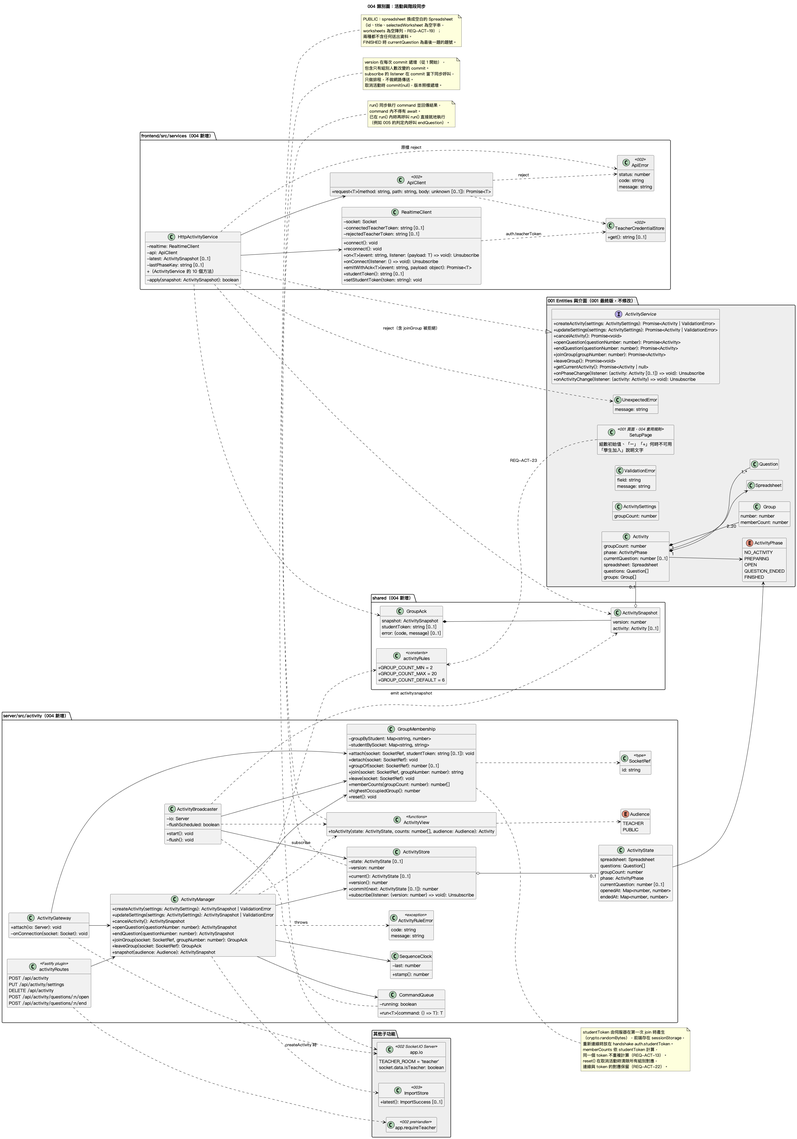
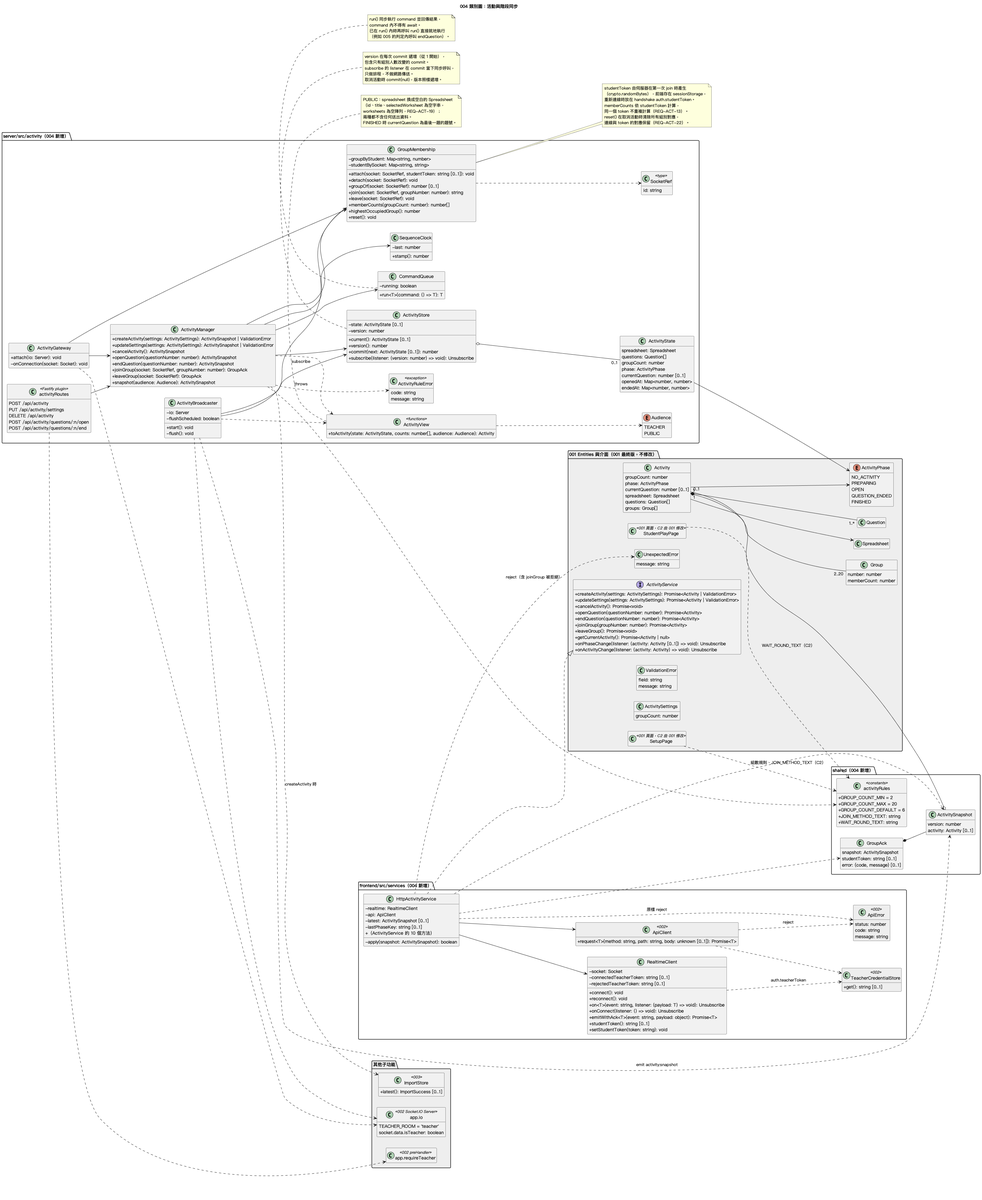
spec(004): move page rules to a 001 change request
Analyze run 5 found that 004 would edit 001's verified pages, which
violates principle III; 004 now only provides shared constants and the
pages become 001 change request C2. The server restart edge case said
pages would not switch, contradicting the null notification on
reconnect, and repeat cancels now follow REQ-ACT-22 only.

Refs: REQ-ACT-02, REQ-ACT-07, REQ-ACT-22, REQ-ACT-23, AC-01, AC-02, AC-09

diff --git a/specs/004-buzzer-session/tasks.md b/specs/004-buzzer-session/tasks.md
@@ -19,7 +19,7 @@ description: "Task list for 004 活動與階段同步"
 
 ## 依賴 001 的修改
 
-只剩 spec「需請 001 修改」C1（D21：老師登入後依階段回到控制台；001 已完成但沒有納入）。001 完成 C1 前，T050 中「回到控制台」的 e2e 以 `test.skip` 標記並註明原因；「暫時限制」的部分（老師重新登入後進入 T-Pick、活動不變、再建立活動被拒絕）現在就測。其餘頁面行為照 001 最終版：結束最後一題直接 `FINISHED`、加入後依階段切換、取消活動（FR-026、FR-050、FR-051，`onPhaseChange(null)`），001 已完成。組數範圍與預設值、說明文字是 001 spec 交給 004 定義的規則，001 只保留位置，由 004 套用（T061，research RA-16）。
+spec「需請 001 修改」有兩項：C1（D21：老師登入後依階段回到控制台；001 已完成但沒有納入）與 C2（活動設定頁、等待開放頁引用 004 的組數規則與說明文字）。004 不修改 001 的頁面與測試（原則 III）。001 完成 C1 前，T050 中「回到控制台」的 e2e 以 `test.skip` 標記並註明原因；001 完成 C2 前，T028、T044 中檢查「−」「+」不可用與說明文字的 e2e 以 `test.skip` 標記；「暫時限制」的部分（老師重新登入後進入 T-Pick、活動不變、再建立活動被拒絕）現在就測。其餘頁面行為照 001 最終版：結束最後一題直接 `FINISHED`、加入後依階段切換、取消活動（FR-026、FR-050、FR-051，`onPhaseChange(null)`），001 已完成。組數範圍與預設值、說明文字是 001 spec 交給 004 定義的規則，004 以 `shared/src/activityRules.ts` 提供（T002），頁面由 001 依 C2 引用（research RA-16）。
 
 ---
 
@@ -28,7 +28,7 @@ description: "Task list for 004 活動與階段同步"
 **Purpose**: 套件、共用型別與測試工具
 
 - [ ] T001 [P] 在 `server/package.json` 加入 `socket.io` 相依、`socket.io-client` 開發相依；在 `frontend/package.json` 加入 `socket.io-client` 相依
-- [ ] T002 [P] 建立 `shared/src/activityRules.ts`：`GROUP_COUNT_MIN = 2`、`GROUP_COUNT_MAX = 20`、`GROUP_COUNT_DEFAULT = 6`（data-model §1）
+- [ ] T002 [P] 建立 `shared/src/activityRules.ts`：`GROUP_COUNT_MIN = 2`、`GROUP_COUNT_MAX = 20`、`GROUP_COUNT_DEFAULT = 6`，以及 spec「說明文字」的 `JOIN_METHOD_TEXT`、`WAIT_ROUND_TEXT`（data-model §1，REQ-ACT-23）；`server/tests/unit/activity/activityRules.test.ts` 確認常數值與 spec 的數值、文字完全相同
 - [ ] T003 [P] 建立 `shared/src/activitySync.ts`：`ActivitySnapshot { version: number; activity: Activity | null }`、`GroupAck { snapshot: ActivitySnapshot; studentToken?: string; error?: { code: string; message: string } }`；`isValidationError` 沿用 001 的 `shared/src/guards.ts`
 - [ ] T004 建立 `server/tests/helpers/activityTestServer.ts`：以 002 的 `buildApp(config, deps)` 在隨機埠啟動伺服器（含 002 的 `app.io` 與 004 的 activity 模組）；`deps` 以替身取代 002 的老師驗證（憑證 `teacher-test` 為有效老師、可模擬換發）與 003 的 `ImportStore`（預設 4 題，可設為 `null`）；提供 `connectTeacher(token?)`、`connectStudent(studentToken?)`（只用 WebSocket）、`waitForSnapshot(socket, predicate, timeoutMs)`、`emitWithAck(socket, event, payload)`，依 T001、T003
 
@@ -65,7 +65,7 @@ description: "Task list for 004 活動與階段同步"
 
 ## Phase 3: User Story 1 - 老師建立活動並設定組數 (Priority: P1) 🎯 MVP
 
-**Goal**: 老師建立活動、修改組數、在準備中取消活動，學生頁面看得到活動；活動設定頁與等待開放頁套用 004 的組數規則與說明文字
+**Goal**: 老師建立活動、修改組數、在準備中取消活動，學生頁面看得到活動；組數規則與說明文字以共用常數提供
 
 **Independent Test**: 用假的匯入結果建立 4 組的活動，再改成 6 組，開著的學生連線收到更新；取消後學生連線收到 `activity: null`，再建立一次人數從 0 開始
 
@@ -75,21 +75,19 @@ description: "Task list for 004 活動與階段同步"
 - [ ] T024 [P] [US1] `server/tests/integration/activity/activityRoutes.settings.test.ts`（Fastify `inject`）：`POST /api/activity`、`PUT /api/activity/settings` 成功回 `200 ActivitySnapshot`；組數不合法（含 3.5、字串）回 `200 ValidationError { field: "groupCount", message }` 且活動不變；規則不允許回 `409 { code, message }`；沒有老師憑證回 `401 UNAUTHORIZED` 且活動不變（AC-07、SC-006）；並把這兩條路由加進 002 `server/tests/integration/requireTeacher.test.ts` 的「老師專用路由清單」；建立後學生連線 1 秒內收到 `PREPARING` 的快照（AC-03、AC-15）
 - [ ] T054 [P] [US1] `server/tests/unit/activity/ActivityManager.cancel.test.ts`：`PREPARING` 取消後 `current()` 為 `null`、版本加 1、`GroupMembership` 人數全為 0（REQ-ACT-22）；取消後 `createActivity` 成功且人數從 0 開始（AC-34）；`OPEN`、`QUESTION_ENDED`、`FINISHED` 時回 `CANCEL_LOCKED`「第 1 題開放後不能取消活動」且狀態與版本不變（AC-35）；沒有活動時不 commit、回傳目前快照（AC-36）；取消後 `joinGroup` 回 `NO_ACTIVITY`、`updateSettings` 回 `NO_ACTIVITY`
 - [ ] T055 [P] [US1] `server/tests/integration/activity/activityRoutes.cancel.test.ts`（Fastify `inject` 與真的 Socket.IO 連線）：`DELETE /api/activity` 成功回 `200 { version, activity: null }`；第 1 題開放後回 `409 CANCEL_LOCKED`；沒有老師憑證回 `401` 且活動不變（AC-07、SC-006）；把這條路由加進 002 的「老師專用路由清單」；取消後學生與老師連線 1 秒內收到 `activity: null` 的快照（AC-33、SC-007）
-- [ ] T056 [P] [US1] `frontend/tests/unit/HttpActivityService.cancel.test.ts`（002 `ApiClient` 與假的 `RealtimeClient`）：`cancelActivity` 送 `DELETE /api/activity`，套用回應後 resolve，`onPhaseChange` 收到 `null`、`onActivityChange` 不被呼叫；`ApiError`（409、401）原樣 reject；有活動時推送 `activity: null` 通知 `onPhaseChange(null)`；斷線期間被取消、重新連線後收到 `null` 仍通知（`lastPhaseKey` 不清除）；取消後再推送新活動時通知新的 `Activity`（001 RD-12）
-- [ ] T057 [P] [US1] 修改 001 的元件測試以涵蓋 004 的規則與文字（001 測試是在 001 的規則下寫的，只新增或改寫與 REQ-ACT-23 相關的案例）：`frontend/tests/component/SetupPage.test.tsx` 建立模式組數預設 6、修改模式為目前活動的組數；組數 2 時「−」為 `disabled`、20 時「+」為 `disabled`，連按不會超出範圍；「學生加入」為 spec「說明文字」的內容；`frontend/tests/component/StudentPlayPage.wait.test.tsx`「這一輪」顯示題數與等待開放頁的說明文字（AC-01、AC-02、AC-09）
+- [ ] T056 [P] [US1] `frontend/tests/unit/HttpActivityService.cancel.test.ts`（002 `ApiClient` 與假的 `RealtimeClient`）：`cancelActivity` 送 `DELETE /api/activity`，套用回應後 resolve，`onPhaseChange` 收到 `null`、`onActivityChange` 不被呼叫；`ApiError`（409、401）原樣 reject；有活動時推送 `activity: null` 通知 `onPhaseChange(null)`；斷線期間被取消、或伺服器重新啟動（重新連線後收到 `{ version: 0, activity: null }`），都仍通知 `null`（`lastPhaseKey` 不清除，spec Edge Cases）；取消後再推送新活動時通知新的 `Activity`（001 RD-12）
 - [ ] T025 [P] [US1] `frontend/tests/unit/HttpActivityService.teacher.test.ts`（002 `ApiClient` 的替身）：`createActivity`、`updateSettings` 成功時回傳 `Activity` 並套用版本；`200` 的 body 為 `ValidationError`（以 `isValidationError` 判斷）時原樣回傳、不套用版本；`ApiError`（409、401、`NETWORK`）原樣 reject（RA-10）
 
 ### Implementation for User Story 1
 
 - [ ] T026 [US1] 在 `server/src/activity/ActivityManager.ts` 實作 `createActivity`、`updateSettings`，都在 `CommandQueue.run` 內；組數驗證用 `activityRules`（data-model「ValidationError 的內容」），依 T015、T002
 - [ ] T027 [US1] 實作 `server/src/activity/activityRoutes.ts` 的 `POST /api/activity`、`PUT /api/activity/settings`：`{ preHandler: app.requireTeacher }`；JSON schema 只要求 body 是物件，`groupCount` 由 `ActivityManager` 驗證；`ValidationError` → `200` 回傳 `ValidationError`；`ActivityRuleError` → `409 { code, message }`（002 的 `ErrorBody`，contracts/activity-http.md），依 T026
-- [ ] T028 [US1] 在 `frontend/src/services/HttpActivityService.ts` 實作 `createActivity`、`updateSettings`（經 002 的 `ApiClient`），依 T022；並在 `frontend/tests/e2e/activity-sync.spec.ts` 加入「活動設定頁」情境：組數預設 6、組數 2 時「−」不可用、20 時「+」不可用、「學生加入」顯示 spec「說明文字」（AC-01、AC-02；依 T061）
+- [ ] T028 [US1] 在 `frontend/src/services/HttpActivityService.ts` 實作 `createActivity`、`updateSettings`（經 002 的 `ApiClient`），依 T022；並在 `frontend/tests/e2e/activity-sync.spec.ts` 加入「活動設定頁」情境：組數預設 6；組數超出範圍時建立被拒絕並在欄位旁顯示「組數必須是 2 到 20 之間的整數」（AC-01、AC-04）；「−」「+」不可用與「學生加入」的說明文字（AC-01、AC-02）先 `test.skip`，註明需 001 完成 C2
 - [ ] T058 [US1] 在 `server/src/activity/ActivityManager.ts` 實作 `cancelActivity()`，在 `CommandQueue.run` 內；`GroupMembership.reset()`、`ActivityStore.commit(null)`（data-model「狀態轉換」、research RA-17），依 T026
 - [ ] T059 [US1] 在 `server/src/activity/activityRoutes.ts` 加入 `DELETE /api/activity`：`{ preHandler: app.requireTeacher }`；`ActivityRuleError` → `409`（contracts/activity-http.md），依 T027、T058
 - [ ] T060 [US1] 在 `frontend/src/services/HttpActivityService.ts` 實作 `cancelActivity()`（經 002 的 `ApiClient`，套用回應後 resolve），依 T028
-- [ ] T061 [US1] 套用 004 的組數規則與說明文字到 001 頁面（research RA-16），不增減欄位、按鈕或頁面：`frontend/src/pages/teacher/SetupPage.tsx` 建立模式初始值改用 `GROUP_COUNT_DEFAULT`，「−」「+」依 `GROUP_COUNT_MIN`、`GROUP_COUNT_MAX` 設 `disabled` 並限制點擊結果，`JOIN_METHOD` 改為 spec「說明文字」；`frontend/src/pages/student/StudentPlayPage.tsx` 的 `WaitView`「這一輪」加上等待開放頁的說明文字。寫 T057 之前先依 CLAUDE.md 第 2 節步驟 6 列出這兩頁的按鈕配置與顯示文字給使用者確認，依 T002
 
-**Checkpoint**: 老師可以建立、修改、取消活動，學生連線同步收到；活動設定頁與等待開放頁套用 004 的規則
+**Checkpoint**: 老師可以建立、修改、取消活動，學生連線同步收到
 
 ---
 
@@ -135,7 +133,7 @@ description: "Task list for 004 活動與階段同步"
 - [ ] T041 [US3] 在 `frontend/src/services/HttpActivityService.ts` 實作 `openQuestion`、`endQuestion`，依 T028
 - [ ] T042 [US3] 修改 `frontend/src/services/createServiceRegistry.ts`：`activity` 綁定 `HttpActivityService`；移除 `phaseControl` 與 `activityValidationControl`；`submission` 或 `result` 仍是模擬實作時，把 `onActivityChange` 的活動寫進 `MockSession.teacherActivity`、`joinGroup` 成功的組別寫進 `MockSession.joinedGroup`、`leaveGroup` 成功時清除，`onPhaseChange(null)`（活動被取消）時清除 `teacherActivity` 與 `joinedGroup`；保留 003 留下的 `readWorksheet` 包裝（`MockResultService` 在老師分頁仍讀 `lastImport`）；並包一層模擬的 `judge`：`JudgeOutcome.activity` 不是 `OPEN` 時呼叫 `HttpActivityService.endQuestion(q)`，以其回傳的活動取代 `JudgeOutcome.activity`（RA-14）；更新 `frontend/tests/unit/ServiceRegistry.test.ts`（`isMockMode()` 仍為 true、`phaseControl` 不存在）
 - [ ] T043 [US3] 在 `server/src/activity/ActivityManager.ts` 與 `ActivityGateway.ts` 加入 pino 事件 `activity.created`、`activity.cancelled`、`question.opened`、`question.ended`、`group.joined`、`group.left`（RA-12），不記錄 `studentToken`；在 002 的 `server/src/logger.ts` `loggerOptions.redact.paths` 加上 `*.studentToken`；不記錄 handshake 物件；`server/tests/integration/activity/logging.test.ts` 檢查 log 輸出中沒有任何 `studentToken`
-- [ ] T044 [US3] `frontend/tests/e2e/activity-sync.spec.ts`：1 個老師與 3 個學生分頁走完「建立 → 加入 → 開放並結束 4 題 → 已結束」，學生頁面隨階段自動切換（S-Join 沒有活動 → 有活動、S-Wait → S-Answer → S-QuestionDone → S-Answer → … → 最後一題直接 S-Results），不需重新整理（AC-15、AC-17～20、SC-001、SC-004）；在 `QUESTION_ENDED`、`FINISHED` 時加入的分頁分別進入 S-QuestionDone、S-Results（001 RD-14）；學生分頁的 WebSocket 訊息中 `spreadsheet` 的 `id`、`title` 為空、沒有 `transport=polling` 的請求（AC-16、REQ-ACT-20、SC-003）；準備中老師取消活動：老師進入 T-Pick，S-Wait 的分頁切到 S-Join 並顯示「目前沒有活動，請等老師建立活動」、已選組別的 S-Join 清除選擇、首頁顯示沒有活動；老師重新建立活動後各組人數從 0 開始（AC-33、AC-34、SC-007）；開放第 1 題後控制台沒有「取消活動」；學生重新整理後選別組，共通錯誤訊息區顯示「第 1 題開放後不能換組，你在第 3 組」、停留在 S-Join；選回原組回到作答頁（AC-12、AC-14）；S-Wait 顯示 spec「說明文字」的內容（AC-09）
+- [ ] T044 [US3] `frontend/tests/e2e/activity-sync.spec.ts`：1 個老師與 3 個學生分頁走完「建立 → 加入 → 開放並結束 4 題 → 已結束」，學生頁面隨階段自動切換（S-Join 沒有活動 → 有活動、S-Wait → S-Answer → S-QuestionDone → S-Answer → … → 最後一題直接 S-Results），不需重新整理（AC-15、AC-17～20、SC-001、SC-004）；在 `QUESTION_ENDED`、`FINISHED` 時加入的分頁分別進入 S-QuestionDone、S-Results（001 RD-14）；學生分頁的 WebSocket 訊息中 `spreadsheet` 的 `id`、`title` 為空、沒有 `transport=polling` 的請求（AC-16、REQ-ACT-20、SC-003）；準備中老師取消活動：老師進入 T-Pick，S-Wait 的分頁切到 S-Join 並顯示「目前沒有活動，請等老師建立活動」、已選組別的 S-Join 清除選擇、首頁顯示沒有活動；老師重新建立活動後各組人數從 0 開始（AC-33、AC-34、SC-007）；開放第 1 題後控制台沒有「取消活動」；學生重新整理後選別組，共通錯誤訊息區顯示「第 1 題開放後不能換組，你在第 3 組」、停留在 S-Join；選回原組回到作答頁（AC-12、AC-14）；S-Wait 顯示 spec「說明文字」的內容（AC-09）先 `test.skip`，註明需 001 完成 C2
 
 **Checkpoint**: 完整活動流程可以展示；MVP 完成
 
@@ -177,15 +175,15 @@ description: "Task list for 004 活動與階段同步"
 ## Phase 8: Polish & Cross-Cutting Concerns
 
 - [ ] T051 依 quickstart.md 執行 17 個人工驗證情境，結果記在 `specs/004-buzzer-session/manual-verification.md`（原則 VIII）
-- [ ] T052 圖表一致性驗證：比對 `server/src/activity/`、`shared/src/activity*.ts`、`frontend/src/services/HttpActivityService.ts`、`RealtimeClient.ts`、`SetupPage.tsx` 與 `StudentPlayPage.tsx` 中屬於 004 的部分 的類別、方法、呼叫順序與 `diagrams/004-*.puml`，結果寫在 `specs/004-buzzer-session/diagram-verification.md`；不一致時修正程式碼，或依原則 II 先改 spec 與圖表（原則 I）
-- [ ] T053 回報執行的測試指令與結果：`npm test -w server -- activity`、`npm test -w frontend -- HttpActivityService SetupPage StudentPlayPage.wait`、`npx playwright test -c frontend/playwright.config.ts activity-sync`、`npm run test:load:activity -w server`（原則 VIII）
+- [ ] T052 圖表一致性驗證：比對 `server/src/activity/`、`shared/src/activity*.ts`、`frontend/src/services/HttpActivityService.ts`、`RealtimeClient.ts` 的類別、方法、呼叫順序與 `diagrams/004-*.puml`，結果寫在 `specs/004-buzzer-session/diagram-verification.md`；不一致時修正程式碼，或依原則 II 先改 spec 與圖表（原則 I）
+- [ ] T053 回報執行的測試指令與結果：`npm test -w server -- activity`、`npm test -w frontend -- HttpActivityService`、`npx playwright test -c frontend/playwright.config.ts activity-sync`、`npm run test:load:activity -w server`（原則 VIII）
 
 ---
 
 ## Dependencies & Execution Order
 
 - Phase 1 → Phase 2 → US1 → US2 → US3 → US5；US4 在 US3 之後。
-- US2 依賴 US1（加入需要活動）；US3 依賴 US1；US3 的 e2e（T044）依賴 US2；US5 依賴 US2、US3；US4 依賴 US3；US4 中回到控制台的 e2e 依賴 001 C1。
+- US2 依賴 US1（加入需要活動）；US3 依賴 US1；US3 的 e2e（T044）依賴 US2；US5 依賴 US2、US3；US4 依賴 US3；US4 中回到控制台的 e2e 依賴 001 C1；T028、T044 中頁面規則與說明文字的 e2e 依賴 001 C2。
 - 同一檔案的任務依序執行：`ActivityManager.ts`（T015 → T026 → T058 → T032 → T039 → T043）、`HttpActivityService.ts`（T022 → T028 → T060 → T034 → T041 → T050）、`activityRoutes.ts`（T027 → T059 → T040）、`ActivityGateway.ts`（T017 → T033 → T043）。
 
 ### Parallel Opportunities
@@ -201,14 +199,13 @@ T025 frontend/tests/unit/HttpActivityService.teacher.test.ts
 T054 server/tests/unit/activity/ActivityManager.cancel.test.ts
 T055 server/tests/integration/activity/activityRoutes.cancel.test.ts
 T056 frontend/tests/unit/HttpActivityService.cancel.test.ts
-T057 frontend/tests/component/SetupPage.test.tsx、StudentPlayPage.wait.test.tsx
 ```
 
 ## Implementation Strategy
 
 1. **MVP**：Phase 1、2 → US1 → US2 → US3。完成後即可展示完整的活動流程（SC-004）。
 2. 加上 US5，以壓力測試確認時序與量級。
-3. US4 的伺服器與服務層現在就做；001 C1 完成後解除回到控制台的 e2e skip。
+3. US4 的伺服器與服務層現在就做；001 C1 完成後解除回到控制台的 e2e skip；001 C2 完成後解除 T028、T044 中頁面規則與說明文字的 e2e skip。
 4. Polish：人工驗證、圖表一致性驗證、回報測試結果。
 
 ## 需求追溯
@@ -216,7 +213,7 @@ T057 frontend/tests/component/SetupPage.test.tsx、StudentPlayPage.wait.test.tsx
 | 需求 | 驗收 | 實作任務 | 測試任務 |
 | --- | --- | --- | --- |
 | REQ-ACT-01 | AC-03 | T026、T027 | T023、T024 |
-| REQ-ACT-02 | AC-01、AC-02、AC-04 | T002、T026、T028、T061 | T023、T024、T028、T057 |
+| REQ-ACT-02 | AC-01、AC-02、AC-04 | T002、T026、T028 | T002、T023、T024、T028 |
 | REQ-ACT-03 | AC-06、AC-34 | T026、T058 | T023、T054 |
 | REQ-ACT-04 | AC-05、AC-08 | T026 | T023 |
 | REQ-ACT-05 | AC-17～21 | T039、T040 | T035、T036、T037 |
@@ -237,7 +234,7 @@ T057 frontend/tests/component/SetupPage.test.tsx、StudentPlayPage.wait.test.tsx
 | REQ-ACT-20 | AC-31 | T018、T020 | T019、T044 |
 | REQ-ACT-21 | AC-25～27、AC-32 | T050 | T048、T049、T050 |
 | REQ-ACT-22 | AC-33～36 | T010、T012、T058、T059、T060、T042 | T009、T011、T054、T055、T056、T044 |
-| REQ-ACT-23 | AC-01、AC-02、AC-09 | T002、T061 | T057、T028、T044 |
+| REQ-ACT-23 | AC-01、AC-02、AC-09 | T002 | T002、T028、T044（頁面部分依賴 001 C2） |
 | REQ-ACT-NFR-01 | AC-28 | T016、T047 | T045、T046 |
 | REQ-ACT-NFR-02 | AC-29 | T032、T047 | T045、T046 |
 | SC-001、SC-004 | — | — | T044、T051 |

diff --git a/specs/004-buzzer-session/spec.md b/specs/004-buzzer-session/spec.md
@@ -20,7 +20,7 @@
 
 - 老師建立活動、修改組數（R3）。
 - 老師在準備中（開放第 1 題之前）取消活動；取消後活動不存在，已加入的學生回到選組頁的「目前沒有活動」（R3、feature-split 第 4 節）。
-- 活動設定頁的組數規則（預設值、「−」「+」何時不可用）與 004 負責的說明文字（001 FR-023、FR-051 交給 004 定義；001 已完成，由 004 在這兩頁套用，不增減欄位、按鈕或頁面）。
+- 定義並提供活動設定頁的組數規則（預設值、「−」「+」何時不可用）與 004 負責的說明文字（001 FR-023、FR-051 交給 004 定義）。頁面的呈現由 001 修改（「需請 001 修改」C2）；004 不修改 001 的頁面（原則 III）。
 - 學生不需登入，選擇組別加入；同一組可以有多位學生（R7）。
 - 老師依題號一題一題開放、結束搶答；結束最後一題時活動一併結束（R3、D9）。
 - 活動階段只存在伺服器，任何改變都主動通知所有分頁；學生頁面依階段自動切換（R11）。
@@ -34,7 +34,7 @@
 | 讀取學習單、辨識題目 | 003 |
 | 送出答案、依送出順序判定、作答期間隱藏其他組 | 005 |
 | 公布每題與全部結果、寫回學習單 | 006 |
-| 頁面、按鈕與頁面切換的畫面 | 001（004 配合 001 的現況；仍需 001 修改的只有 D21，見「需請 001 修改」） |
+| 頁面、按鈕與頁面切換的畫面 | 001（004 配合 001 的現況；仍需 001 修改的是 C1（D21）與 C2（組數規則與說明文字），見「需請 001 修改」） |
 
 不做：每題限時與倒數、公平模式（E3）、活動名稱、開新一輪（活動開放第 1 題之後就不能取消或提前結束，結束後也不能建立新活動；同一時間只有一場活動）、學生加入網址、連線／離線狀態顯示、活動狀態存檔（伺服器重啟後活動消失）。
 
@@ -42,7 +42,7 @@
 
 ### Session 2026-11-21
 
-- Q: 組數的範圍？組數在邊界時「−」「+」怎麼呈現？（001 D4）→ A: 2 到 20 組的整數；組數為 2 時「−」不可用、為 20 時「+」不可用；伺服器再驗證一次（REQ-ACT-02）。（2026-11-22：001 spec 已把範圍、預設值與「−」「+」何時不可用交給 004 定義，不列為請 001 修改。2026-11-26：001 已完成但沒有套用，改由 004 套用，見 Session 2026-11-26）
+- Q: 組數的範圍？組數在邊界時「−」「+」怎麼呈現？（001 D4）→ A: 2 到 20 組的整數；組數為 2 時「−」不可用、為 20 時「+」不可用；伺服器再驗證一次（REQ-ACT-02）。（2026-11-22：001 spec 已把範圍、預設值與「−」「+」何時不可用交給 004 定義，不列為請 001 修改。2026-11-26：001 已完成但沒有套用，列為請 001 修改 C2，見 Session 2026-11-26）
 - Q: 組數的預設值？（001 D5）→ A: 6 組（REQ-ACT-02、AC-01）。
 - Q: 結束最後一題時，活動是否一併結束？（001 D9）→ A: 是。結束最後一題後階段直接是「已結束」，不另外經過最後一題的「本題已結束」（REQ-ACT-06）。（2026-11-22：feature-split 第 4 節已定案，001 的頁面切換已配合）
 - Q: 老師在活動進行中重新整理頁面時，活動要結束，還是讓老師登入後回到控制台？（001 D21）→ A: 活動繼續；老師用同一個帳號重新登入後，直接進入控制台目前的階段（REQ-ACT-21，需請 001 修改 C1）。（2026-11-22 修訂：001 修改前為暫時限制，見 Session 2026-11-22）
@@ -82,8 +82,9 @@
 - Q: 活動被取消時，學生頁面怎麼知道？→ A: 依 001 RD-12，階段改變的通知以「沒有活動」表示活動已被取消；首頁、選組頁、等待開放頁收到後切換（REQ-ACT-16、AC-33）。
 - Q: 連點「確定取消活動」，第二次時活動已經不存在怎麼辦？→ A: 視為成功、不改變，與連點開放或結束相同（REQ-ACT-07、AC-36）。
 - Q: 允許取消後，「已經有活動時再建立」的訊息還要說「重新啟動伺服器」嗎？→ A: 要。這個情況只會在老師失去控制台時發生（D21 暫時限制下重新登入，或被別人登入取代），老師回不到控制台，也就無法取消；要重新開始仍只能重新啟動伺服器（AC-06、AC-32）。
-- Q: 001 已完成，但活動設定頁的組數沒有上下限（「−」可減到 0），預設值寫死在頁面，等待開放頁的「這一輪」只有題數，誰來補？→ A: 依 001 spec 範圍原則與 FR-023，這些規則屬於 004，001 只保留位置。由 004 在活動設定頁與等待開放頁套用 004 的規則與文字，不增減欄位、按鈕或頁面，所以不需修改 001 的 spec（REQ-ACT-02、REQ-ACT-23、AC-01、AC-02）。
+- Q: 001 已完成，但活動設定頁的組數沒有上下限（「−」可減到 0），預設值寫死在頁面，等待開放頁的「這一輪」只有題數，誰來補？→ A: 規則與文字屬於 004（001 FR-023、FR-051），由 004 定義並以共用常數提供；頁面怎麼呈現屬於 001。憲法 III 不允許為新增規則修改既有且已驗證的實作，001 plan 也只允許後續子功能修改 `ServiceRegistry` 的綁定，所以列為「需請 001 修改」C2，由 001 依自己的流程修改頁面與測試。C2 完成前，伺服器仍驗證組數（AC-04），頁面維持 001 現況（REQ-ACT-02、REQ-ACT-23、AC-01、AC-02、AC-09）。（2026-11-26 analyze 第 5 次 C1 後修訂；原本決定由 004 直接修改 001 頁面）
 - Q: 活動設定頁「學生加入」的文字以誰為準？→ A: 以 001 已實作的文字為基礎，加上 004 的換組規則（「說明文字」一節）。
+- Q: 伺服器重新啟動時，已開著的頁面怎麼辦？→ A: 頁面重新連上後收到「沒有活動」，依 001 RD-12：首頁、選組頁、等待開放頁切到「目前沒有活動」；作答頁、等待判定頁、本題結果頁與全部結果頁不切換（Edge Cases）。
 - Q: 學生收到的活動資料要遮掉哪些學習單資訊？→ A: 學生頁面用不到任何學習單資訊，試算表 ID、標題、工作表名稱都不給（REQ-ACT-19）。
 - Q: D21 的 C1 狀態？→ A: 001 已完成且沒有納入 C1，001 spec 的 D21 仍待處理。C1 保留為請 001 修改的項目，修改前維持暫時限制（「需請 001 修改」）。
 
@@ -99,8 +100,8 @@
 
 **Acceptance Scenarios**:
 
-1. **AC-01** **Given** 老師已登入且已成功匯入一份 4 題的學習單，**When** 進入活動設定頁（建立模式），**Then** 組數預設為 6，組別清單列出第 1–6 組；「這一輪」的學生加入說明為「說明文字」一節的內容。
-2. **AC-02** **Given** 活動設定頁的組數為 2，**When** 檢視組數欄位，**Then**「−」不可用，連按也不會小於 2；組數為 20 時「+」不可用，連按也不會大於 20。
+1. **AC-01** **Given** 老師已登入且已成功匯入一份 4 題的學習單，**When** 進入活動設定頁（建立模式），**Then** 組數預設為 6，組別清單列出第 1–6 組；「這一輪」的學生加入說明為「說明文字」一節的內容。（頁面部分需 001 完成 C2）
+2. **AC-02** **Given** 活動設定頁的組數為 2，**When** 檢視組數欄位，**Then**「−」不可用，連按也不會小於 2；組數為 20 時「+」不可用，連按也不會大於 20。（需 001 完成 C2；完成前由伺服器拒絕，見 AC-04）
 3. **AC-03** **Given** 活動設定頁的組數為 4，**When** 老師按「建立活動」，**Then** 活動進入「準備中」，題目為匯入的 4 題，第 1–4 組各 0 人；已開著首頁或選組頁的分頁在 1 秒內看到這個活動。
 4. **AC-04** **Given** 有人繞過頁面直接要求組數 1、21 或 3.5，**When** 建立活動或儲存設定，**Then** 系統拒絕，在組數欄位旁顯示「組數必須是 2 到 20 之間的整數」，活動不變。
 5. **AC-05** **Given** 準備中且第 5 組已有 1 位學生，**When** 老師把組數改成 4 並儲存，**Then** 系統拒絕並顯示「第 5 組已有學生加入，組數不能少於 5」；改成 8 則成功，所有分頁在 1 秒內看到 8 組。
@@ -124,7 +125,7 @@
 
 **Acceptance Scenarios**:
 
-1. **AC-09** **Given** 活動準備中、6 組，**When** 學生在選組頁選第 3 組並按「加入第 3 組」，**Then** 進入等待開放頁，「這一輪」顯示題數與「說明文字」一節的內容；老師控制台在 1 秒內顯示第 3 組人數加 1。
+1. **AC-09** **Given** 活動準備中、6 組，**When** 學生在選組頁選第 3 組並按「加入第 3 組」，**Then** 進入等待開放頁，「這一輪」顯示題數與「說明文字」一節的內容（說明文字需 001 完成 C2）；老師控制台在 1 秒內顯示第 3 組人數加 1。
 2. **AC-10** **Given** 第 3 組已有 1 人，**When** 另一個分頁也加入第 3 組，**Then** 加入成功，第 3 組為 2 人。
 3. **AC-11** **Given** 準備中，學生在第 3 組，**When** 按「選錯組別？重新選擇」後加入第 5 組，**Then** 第 3 組人數減 1、第 5 組加 1。
 4. **AC-12** **Given** 第 1 題已開放過（之後任何階段），**When** 已在第 3 組的分頁要求加入第 5 組或離開組別，**Then** 系統拒絕，頁面停留在原頁，共通錯誤訊息區顯示「第 1 題開放後不能換組，你在第 3 組」；該分頁仍在第 3 組。
@@ -203,7 +204,7 @@
 - 老師結束一題與 005 的「接受後自動結束」同時發生：只結束一次（AC-22）。
 - 所有學生分頁都斷線：活動照常；重新連上後立即收到目前狀態（AC-23）。
 - 活動進行中有人（原本的老師或其他人）以 Google 登入：依 002，新登入的人取代前一位老師，前一位老師分頁的老師操作被拒絕、不再收到老師版的活動狀態；活動本身不變（AC-32）。
-- 伺服器重新啟動：活動與所有組別都消失（RD-05 接受的限制）。已開著的頁面不會自動切換；重新整理後首頁顯示「目前沒有活動」，學生原本的組別不再有效。
+- 伺服器重新啟動：活動與所有組別都消失（RD-05 接受的限制），學生原本的組別不再有效。已開著的頁面重新連上後收到「沒有活動」：首頁、選組頁、等待開放頁切到「目前沒有活動」；作答頁、等待判定頁、本題結果頁依 001 RD-12 不切換，全部結果頁也不切換。重新整理後回到首頁，顯示「目前沒有活動」。
 - 已結束的活動不能重新開始，也不能建立新活動（不做開新一輪）；要再玩一場須重新啟動伺服器。
 - 老師取消活動的同時有學生按「加入第 n 組」：以伺服器處理的先後為準；加入在後時被拒絕，共通錯誤訊息區顯示「目前沒有活動」，選組頁隨後顯示「目前沒有活動」（AC-33）。
 - 老師取消活動的同時，同一個老師憑證的另一個分頁（例如瀏覽器「複製分頁」）開放第 1 題：以伺服器處理的先後為準；開放在先時取消被拒絕（AC-35），取消在先時開放得到「目前沒有活動」。
@@ -222,13 +223,13 @@
 - **REQ-ACT-03**（R3）：系統同一時間 MUST 最多只有一場活動；已有活動時（任何階段）MUST 拒絕建立新活動，並說明「已經有進行中的活動，不能再建立；要重新開始請重新啟動伺服器」。活動被取消（REQ-ACT-22）後 MUST 允許再建立。
 - **REQ-ACT-04**（R3、R7）：老師 MUST 只能在第 1 題開放前修改組數；新組數 MUST 不少於目前已有學生的最大組別編號，否則拒絕並說明「第 n 組已有學生加入，組數不能少於 n」。
 - **REQ-ACT-22**（R3、feature-split 第 4 節、001 FR-026）：老師 MUST 能在準備中取消活動。取消後活動不存在：所有組別與學生的加入紀錄 MUST 一併清除，下一場活動的人數從 0 開始；所有分頁 MUST 收到「沒有活動」（REQ-ACT-16）。第 1 題開放後 MUST 拒絕取消，說明「第 1 題開放後不能取消活動」，活動不變；系統 MUST NOT 提供開放第 1 題後提前結束活動的方式。沒有活動時要求取消 MUST 視為成功、不改變狀態（連點）。
-- **REQ-ACT-23**（001 FR-023、FR-051）：活動設定頁的組數 MUST 以 REQ-ACT-02 的預設值開始（建立模式），「−」「+」依 REQ-ACT-02 不可用；活動設定頁「學生加入」與等待開放頁「這一輪」MUST 顯示「說明文字」一節的內容。只套用 004 的規則與文字，MUST NOT 增減 001 的欄位、按鈕或頁面。
+- **REQ-ACT-23**（001 FR-023、FR-051）：004 MUST 以共用常數提供 REQ-ACT-02 的組數範圍與預設值，以及「說明文字」一節的文字，讓 001 的活動設定頁與等待開放頁引用。004 MUST NOT 修改 001 的頁面（原則 III）；頁面的呈現由 001 依「需請 001 修改」C2 完成，完成前伺服器仍依 REQ-ACT-02 驗證組數。
 
 #### 逐題開放與結束
 
 - **REQ-ACT-05**（R3）：活動階段 MUST 依序為「準備中 → 第 1 題搶答中 → 第 1 題已結束 → 第 2 題搶答中 → … → 最後一題已結束」，只能往前、不能倒退，同一時間最多一題搶答中。準備中只能開放第 1 題；第 n 題已結束時只能開放第 n+1 題；只能結束目前搶答中的那一題。不符合時 MUST 拒絕並說明，活動不變。
 - **REQ-ACT-06**（R3、001 D9）：結束最後一題時，活動 MUST 一併進入「已結束」，不另外顯示最後一題的「已結束」階段（feature-split 第 4 節）。
-- **REQ-ACT-07**（R3）：重複要求開放目前已開放的題目、結束已經結束的題目（連點、或老師結束與 005 的自動結束同時發生），或取消已經不存在的活動，MUST 只生效一次，之後的要求得到目前的活動，不視為錯誤。
+- **REQ-ACT-07**（R3）：重複要求開放目前已開放的題目，或結束已經結束的題目（連點、或老師結束與 005 的自動結束同時發生），MUST 只生效一次，之後的要求得到目前的活動，不視為錯誤。重複取消依 REQ-ACT-22。
 - **REQ-ACT-08**（R3、005）：結束一題的操作 MUST 也能由 005 在老師接受答案時觸發，效果與老師按「結束並公布結果」相同；最後一題被接受時活動一併結束（feature-split 3.2、第 4 節）。
 - **REQ-ACT-09**（R1、原則 VI）：建立活動、修改設定、取消活動、開放與結束題目 MUST 只有老師（以 Google 登入、持有目前有效老師憑證的分頁）能執行；伺服器依 002 的驗證拒絕其他請求。同一個瀏覽器的學生分頁、被後來登入者取代的前一位老師分頁也不能執行。
 
@@ -260,7 +261,7 @@
 
 ### 說明文字
 
-001 在活動設定頁「學生加入方式的說明」與等待開放頁「這一輪的說明」只保留位置，文字依 feature-split 3.2 與 004、005 的規則撰寫（001 spec「相對於設計稿的調整」末段、FR-023、FR-051）。001 已完成：活動設定頁的「學生加入」已有文字，等待開放頁的「這一輪」只顯示題數。004 負責的部分文字如下，由 004 套用（REQ-ACT-23）；成功規則的文字由 005 提供，001 已有的成功規則文字 004 不改：
+001 在活動設定頁「學生加入方式的說明」與等待開放頁「這一輪的說明」只保留位置，文字依 feature-split 3.2 與 004、005 的規則撰寫（001 spec「相對於設計稿的調整」末段、FR-023、FR-051）。001 已完成：活動設定頁的「學生加入」已有文字，等待開放頁的「這一輪」只顯示題數。004 負責的部分文字如下，由 004 以共用常數提供、001 依 C2 引用（REQ-ACT-23）；成功規則的文字由 005 提供，001 已有的成功規則文字 004 不改：
 
 - 活動設定頁「學生加入」：「學生在首頁選「我是學生」，再選自己的組別加入。同一組可以有多位同學，任何人送出都代表整組。第 1 題開放後不能換組。」（001 已有的文字加上最後一句）
 - 等待開放頁「這一輪」：保留 001 的題數，下方加上「老師會一題一題開放。第 1 題開放後不能換組。」
@@ -270,8 +271,9 @@
 | # | 要改什麼 | 為什麼 | 修改前的處理 |
 | --- | --- | --- | --- |
 | C1 | 老師登入成功後的目的頁：先呼叫 `ActivityService.getCurrentActivity()`，沒有活動時進入 T-Pick（不變）；`PREPARING` → T-Lobby、`OPEN` → T-Live（第 n 題）、`QUESTION_ENDED` → T-QuestionEnd（第 n 題）、`FINISHED` → T-Results。修改 spec「頁面與按鈕」T-Login 列、畫面流程圖、`AppRouter`，以及 research RD-11 的說明（重新整理仍回首頁，但老師登入後可回到控制台）。已在 PR #10 留言；001 已完成但沒有納入（001 spec D21 仍待處理），需另外修改 001 spec 後才能做 | D21 決定「活動繼續，老師重新登入後回到控制台」（REQ-ACT-21、AC-26） | 暫時限制：老師登入後進入 T-Pick，回不到控制台；活動與學生不受影響（AC-32） |
+| C2 | 活動設定頁（T-Setup）與等待開放頁（S-Wait）引用 004 提供的常數：建立模式的組數初始值用 `GROUP_COUNT_DEFAULT`；「−」在 `GROUP_COUNT_MIN`、「+」在 `GROUP_COUNT_MAX` 時不可用，點擊結果不超出範圍；T-Setup「學生加入」用 `JOIN_METHOD_TEXT`；S-Wait「這一輪」在題數下方加上 `WAIT_ROUND_TEXT`。不增減欄位、按鈕或頁面。修改 001 spec（US2 AC-7、FR-023、FR-051）、tasks 與對應的元件測試 | 規則與文字由 004 定義（001 FR-023、FR-051），但 004 不得為此修改 001 已驗證的頁面（原則 III；001 plan「替換模擬實作的方式」）（REQ-ACT-23、AC-01、AC-02、AC-09） | 頁面維持 001 現況：組數預設 6 但沒有上下限，超出範圍時由伺服器拒絕（AC-04）；「學生加入」為 001 原本的文字，等待開放頁只顯示題數 |
 
-上一輪列出的 C2（`joinGroup` 回傳 `ValidationError`）、C3（組數範圍與預設值）、C4（說明文字）、C5（`FINISHED` 與加入時依階段切換）已移除：C2 改用 `UnexpectedError`；C3、C4 是 001 spec 已交給 004 定義的規則（2026-11-26 起由 004 套用，REQ-ACT-23）；C5 已由 001 最終版完成。取消活動的頁面（001 FR-026、FR-050、FR-051）001 已完成，不需請 001 修改。
+2026-11-22 那一輪列出的舊 C2（`joinGroup` 回傳 `ValidationError`）、C3（組數範圍與預設值）、C4（說明文字）、C5（`FINISHED` 與加入時依階段切換）已移除：舊 C2 改用 `UnexpectedError`；C3、C4 當時認為 001 實作時會照用，001 完成後沒有套用，2026-11-26 合併成新的 C2；C5 已由 001 最終版完成。取消活動的頁面（001 FR-026、FR-050、FR-051）001 已完成，不需請 001 修改。
 
 ### Key Entities *(include if feature involves data)*
 

diff --git a/specs/004-buzzer-session/plan.md b/specs/004-buzzer-session/plan.md
@@ -6,7 +6,7 @@
 
 ## Summary
 
-004 在伺服器建立唯一權威的活動狀態（`ActivityStore`），老師以 REST 指令建立活動、修改組數、在準備中取消活動、逐題開放與結束；學生以 Socket.IO 連線加入組別，伺服器依連線記住組別（`GroupMembership`）。所有改變狀態的操作在同一條 `CommandQueue` 中以同步程式碼逐一處理；每次改變後 `ActivityBroadcaster` 把帶版本號的完整快照推送給所有連線，前端只採用較新的版本。前端新增 `HttpActivityService` 實作 001 的 `ActivityService`，改 `createServiceRegistry()` 的綁定；001 頁面只在活動設定頁與等待開放頁套用 004 的組數規則與說明文字（REQ-ACT-23、research RA-16），不增減欄位、按鈕或頁面。004 配合 001 最終版（PR #10）：`joinGroup` 的預期失敗以 `UnexpectedError` reject；仍需 001 修改的只有 D21（spec「需請 001 修改」C1；001 已完成但沒有納入），修改前是暫時限制。2026-11-26 依 main 上的 feature-split、001 最終版（取消活動、RD-12 的 `onPhaseChange(null)`）與 002 #18 修訂。
+004 在伺服器建立唯一權威的活動狀態（`ActivityStore`），老師以 REST 指令建立活動、修改組數、在準備中取消活動、逐題開放與結束；學生以 Socket.IO 連線加入組別，伺服器依連線記住組別（`GroupMembership`）。所有改變狀態的操作在同一條 `CommandQueue` 中以同步程式碼逐一處理；每次改變後 `ActivityBroadcaster` 把帶版本號的完整快照推送給所有連線，前端只採用較新的版本。前端新增 `HttpActivityService` 實作 001 的 `ActivityService`，只改 `createServiceRegistry()` 的綁定，頁面不改。組數規則與說明文字由 004 以 `shared/src/activityRules.ts` 提供，001 的頁面依 spec「需請 001 修改」C2 引用（REQ-ACT-23、research RA-16）。004 配合 001 最終版（PR #10）：`joinGroup` 的預期失敗以 `UnexpectedError` reject；仍需 001 修改的是 C1（D21，001 已完成但沒有納入）與 C2（組數規則與說明文字），修改前是暫時限制。2026-11-26 依 main 上的 feature-split、001 最終版（取消活動、RD-12 的 `onPhaseChange(null)`）與 002 #18 修訂。
 
 **以三張圖為藍圖**：本計畫的組件、類別、方法與呼叫順序一律依 [`diagrams/004-component.puml`](../../diagrams/004-component.puml)、[`diagrams/004-class.puml`](../../diagrams/004-class.puml)、[`diagrams/004-sequence.puml`](../../diagrams/004-sequence.puml)。下方「藍圖對照」把圖中每個組件與類別對應到一個檔案；[data-model.md](./data-model.md) 與類別圖一一對應；時序圖的 7 段各對應 User Story 與測試（見「時序圖與測試」）。
 
@@ -26,9 +26,9 @@
 
 **Performance Goals**: 1 個老師 + 200 個學生連線時，階段改變 1 秒內送達全部連線（NFR-01）；200 個學生 1 秒內同時加入，每個都恰好一次回覆（NFR-02）
 
-**Constraints**: 狀態只在伺服器（原則 V）；改變狀態的程式碼內不得 `await`（RA-02）；只用 WebSocket（D22）；學生收到的資料不含學習單資訊（REQ-ACT-19）；001 的頁面只套用 004 的規則與文字（RA-16），其餘只改組合根
+**Constraints**: 狀態只在伺服器（原則 V）；改變狀態的程式碼內不得 `await`（RA-02）；只用 WebSocket（D22）；學生收到的資料不含學習單資訊（REQ-ACT-19）；不改 001 的頁面，只改組合根（原則 III、RA-16）
 
-**Scale/Scope**: 2–20 組、每組最多 10 個分頁；5 個 REST 端點、2 個 Socket.IO 學生事件、1 個推送事件；伺服器 10 個檔案、shared 2 個、frontend 2 個新增與 2 個 001 頁面的修改
+**Scale/Scope**: 2–20 組、每組最多 10 個分頁；5 個 REST 端點、2 個 Socket.IO 學生事件、1 個推送事件；伺服器 10 個檔案、shared 2 個、frontend 2 個
 
 ## Constitution Check
 
@@ -38,13 +38,13 @@
 | --- | --- | --- |
 | I. PlantUML 設計優先 | 三張圖與 PNG 都在；「藍圖對照」把每個組件、類別對應到檔案；實作後依圖表做一致性驗證（tasks 最後一個 Phase） | 通過 |
 | II. 規格先行與可追溯 | 每條 REQ-ACT 有 AC（checklist Notes）；tasks 的追溯表對應每條 REQ 到任務與測試；需要 001 改的地方先列在 spec，不直接改 001 | 通過 |
-| III. 分層與依賴抽象 | 前端：頁面 → `ActivityService` ← `HttpActivityService`，服務只改組合根，頁面只引用 `shared/activityRules`；伺服器：`activityRoutes`、`ActivityGateway`（邊界）→ `ActivityManager`（規則）→ `ActivityStore`、`GroupMembership`（狀態）；`GroupMembership` 只依賴 `SocketRef`，不引用 Socket.IO；模擬實作的橋接只在組合根（RA-14） | 通過 |
+| III. 分層與依賴抽象 | 前端：頁面 → `ActivityService` ← `HttpActivityService`，只改組合根，不修改 001 已驗證的頁面（規則與文字以 `shared/activityRules` 提供，頁面由 001 依 C2 引用）；伺服器：`activityRoutes`、`ActivityGateway`（邊界）→ `ActivityManager`（規則）→ `ActivityStore`、`GroupMembership`（狀態）；`GroupMembership` 只依賴 `SocketRef`，不引用 Socket.IO；模擬實作的橋接只在組合根（RA-14） | 通過 |
 | IV. 外部資料於執行期解析 | 題數、小題數取自 003 的匯入結果，不寫死 | 通過 |
 | V. 單一權威狀態來源 | 階段、題號、組數、人數只在 `ActivityStore` 與 `GroupMembership`；前端只採用推送或回應中的快照，以版本號丟掉舊的（RA-03）；`getCurrentActivity` 也來自同一個推送（RA-09） | 通過 |
 | VI. 最小揭露與機敏資料 | 學生版快照不含試算表 ID（RA-08）；組別由伺服器依連線判斷（RA-06）；學生身分在 `sessionStorage`，同瀏覽器其他分頁拿不到；`studentToken` 不進 log（RA-12）；004 不使用任何金鑰 | 通過 |
-| VII. 輸入驗證與錯誤訊息 | 組數在頁面限制範圍（RA-16），組數、題號、組別編號都在伺服器驗證；組數錯誤以 `ValidationError` 指出欄位與原因；加入組別被拒絕以 `UnexpectedError` 說明原因（001 的 `joinGroup` 沒有預期失敗的回傳值）；規則不允許時狀態不變（data-model） | 通過 |
+| VII. 輸入驗證與錯誤訊息 | 組數、題號、組別編號都在伺服器驗證（頁面限制範圍由 001 依 C2 完成）；組數錯誤以 `ValidationError` 指出欄位與原因；加入組別被拒絕以 `UnexpectedError` 說明原因（001 的 `joinGroup` 沒有預期失敗的回傳值）；規則不允許時狀態不變（data-model） | 通過 |
 | VIII. 自動化測試與人工驗證 | 每個 User Story 有正常與邊界測試（tasks）；Google、匯入、老師驗證以替身取代；quickstart 列出 17 個人工情境；壓力測試 | 通過 |
-| IX. 程式碼規範 | 不新增頁面或元件，001 頁面只改規則值與文字；`RealtimeClient` 只寫一次，005、006 共用；英文命名 | 通過 |
+| IX. 程式碼規範 | 不新增頁面或元件；`RealtimeClient` 只寫一次，005、006 共用；英文命名 | 通過 |
 | X. 人工把關 | 本 plan 需人工審查後才能進入 tasks | 待審查 |
 | XI. 簡潔 | 不做 `Outbox`、不另設 GET 端點、不做連線狀態、不存檔、不另建 Socket.IO 伺服器（RA-04、RA-09、RA-13）；唯一的抽象 `SocketRef` 是為了讓 `GroupMembership` 能不靠 Socket.IO 測試 | 通過 |
 
@@ -52,11 +52,11 @@
 
 | 圖中的組件或類別 | 檔案 | 來源圖 |
 | --- | --- | --- |
-| `activityRules` | `shared/src/activityRules.ts` | component、class |
+| `activityRules`（組數常數與說明文字） | `shared/src/activityRules.ts` | component、class |
+| `SetupPage`、`StudentPlayPage` 引用 `activityRules` | 001 依 spec「需請 001 修改」C2 修改，004 不改 | component、class |
 | `ActivitySnapshot`、`GroupAck` | `shared/src/activitySync.ts` | component、class |
 | `HttpActivityService` | `frontend/src/services/HttpActivityService.ts` | component、class、sequence |
 | `RealtimeClient` | `frontend/src/services/RealtimeClient.ts` | component、class |
-| `SetupPage`、`StudentPlayPage`（`WaitView`）中屬於 004 的規則與文字（001 頁面） | `frontend/src/pages/teacher/SetupPage.tsx`、`frontend/src/pages/student/StudentPlayPage.tsx`（research RA-16） | component、class |
 | `createServiceRegistry()` 的綁定 | `frontend/src/services/createServiceRegistry.ts`（只改 `activity` 綁定、移除 `phaseControl` 與 `activityValidationControl`、加上 RA-14 的暫時橋接） | component |
 | `ApiClient`、`ApiError`、`TeacherCredentialStore`（002） | `frontend/src/services/http/`（002 提供） | component、class |
 | `ActivityState`、`ActivityStore` | `server/src/activity/ActivityStore.ts` | component、class、sequence |
@@ -93,7 +93,8 @@
 
 | 方向 | 內容 | 依據 |
 | --- | --- | --- |
-| 004 使用 001 | `ActivityService`（含 `cancelActivity`、`onPhaseChange(null)`，001 RD-12）；活動設定頁、等待開放頁中交給 004 的規則與文字（001 FR-023、FR-051） | 001 spec、research RD-12 |
+| 004 使用 001 | `ActivityService`（含 `cancelActivity`、`onPhaseChange(null)`，001 RD-12） | 001 spec、research RD-12 |
+| 001 使用 004 | `activityRules` 的組數常數與說明文字（001 FR-023、FR-051；spec「需請 001 修改」C2） | research RA-16 |
 | 004 使用 002 | `buildApp(config, deps)`、`app.requireTeacher`、`app.io`（已設 `transports: ['websocket']`；handshake 老師驗證、`TEACHER_ROOM`、`socket.data.isTeacher`；換發憑證時中斷舊老師連線）、`ErrorBody`、`loggerOptions.redact.paths`；前端 `ApiClient`、`TeacherCredentialStore`（#18：401 時不清除憑證） | 002 `contracts/server-extension.md`、`socket-handshake.md`、`auth-http.md`；RA-07、RA-13 |
 | 004 使用 003 | `ImportStore.latest()`（建立活動時取題目與 `Spreadsheet`） | 跨子功能交界表 |
 | 005 使用 004 | `ActivityStore`、`GroupMembership.groupOf(socket)`、`ActivityManager.endQuestion(n)`、`CommandQueue`、`SequenceClock`、Socket.IO 伺服器與 `RealtimeClient` | [contracts/server-modules.md](./contracts/server-modules.md) |
@@ -125,7 +126,7 @@ specs/004-buzzer-session/
 
 ```text
 shared/src/
-├── activityRules.ts           # 004：組數範圍與預設
+├── activityRules.ts           # 004：組數範圍與預設、說明文字
 └── activitySync.ts            # 004：ActivitySnapshot、GroupAck
 server/
 ├── src/
@@ -148,8 +149,6 @@ server/
     ├── integration/activity/
     └── load/phaseSync.load.ts
 frontend/
-├── src/pages/teacher/SetupPage.tsx          # 001 頁面：套用組數規則與說明文字（RA-16）
-├── src/pages/student/StudentPlayPage.tsx    # 001 頁面：WaitView 的說明文字（RA-16）
 ├── src/services/
 │   ├── HttpActivityService.ts # 004
 │   ├── RealtimeClient.ts      # 004（005、006 共用）

diff --git a/specs/004-buzzer-session/research.md b/specs/004-buzzer-session/research.md
@@ -75,7 +75,7 @@
 - **Decision**:
   - `getCurrentActivity()`：連線後伺服器立即送一份目前狀態（REQ-ACT-15）；手上已有快照時直接回傳，否則等下一份 `activity:snapshot`。5 秒內沒收到以 `UnexpectedError`「連不上伺服器，請確認伺服器已啟動」 reject。不另設 `GET` 端點。依 001 最終版，只有 Main 與 S-Join 載入時呼叫；T-Lobby 用 `createActivity`、`updateSettings` 的回傳值，之後靠 `onActivityChange`。
   - `onActivityChange(listener)`：每採用一份新版本就通知（`activity` 不是 `null` 時）。
-  - `onPhaseChange(listener)`：只在 `phase`、`currentQuestion` 或 `groupCount` 與上一次通知的不同時（含從沒有活動變成有活動）通知。採用的快照 `activity` 為 `null`、而上一次通知的是活動時（活動被取消），通知 `null`（001 RD-12、REQ-ACT-16）。`lastPhaseKey` 在重新連線時不清除，所以斷線期間被取消的活動，重新連線後也會通知 `null`。
+  - `onPhaseChange(listener)`：只在 `phase`、`currentQuestion` 或 `groupCount` 與上一次通知的不同時（含從沒有活動變成有活動）通知。採用的快照 `activity` 為 `null`、而上一次通知的是活動時（活動被取消），通知 `null`（001 RD-12、REQ-ACT-16）。`lastPhaseKey` 在重新連線時不清除，所以斷線期間被取消的活動，或伺服器重新啟動後沒有活動，重新連線後也會通知 `null`；頁面依 001 RD-12 決定是否切換（spec Edge Cases）。
 - **Rationale**: 狀態只有一個來源（Socket.IO 推送），初次載入也走同一條，不會出現 GET 與推送不一致。`onPhaseChange` 不因人數改變而通知，避免作答頁因為別組有人加入就被重畫；`groupCount` 改變只發生在準備中，讓選組頁能更新組別清單。
 - **Alternatives considered**: 另設 `GET /api/activity`（兩個來源，要處理順序）；`onPhaseChange` 每個版本都通知（作答頁可能被不相干的人數變化重畫）。
 
@@ -125,14 +125,11 @@
 - **Decision**: `server/tests/load/phaseSync.load.ts`：在隨機埠啟動伺服器（Google 與匯入以替身取代），以 `socket.io-client` 建立 1 個老師與 200 個學生連線（20 組 × 10，只用 WebSocket）。先讓 200 個學生在 1 秒內同時加入（NFR-02），再由老師依序開放並結束 4 題。每個連線記錄收到每個版本的時間。通過條件：每次階段改變 1 秒內送達全部 201 個連線、每個連線的版本號嚴格遞增、結束時所有連線的狀態與伺服器相同、每個加入都恰好一次 ack、各組人數總和為 200。`npm run test:load:activity -w server` 重複 20 次。
 - **Rationale**: 沿用舊設計 R8 的做法，改成量測階段同步；送出的壓力測試（1 秒 1,000 筆）屬於 005。
 
-## RA-16 001 頁面上屬於 004 的規則與文字（REQ-ACT-23）
+## RA-16 001 頁面上屬於 004 的規則與文字（REQ-ACT-23、spec「需請 001 修改」C2）
 
-- **Decision**: 001 spec FR-023、FR-051 把組數的預設值、「−」「+」何時不可用與說明文字交給 004，001 已完成但只保留位置。004 直接修改這兩個頁面中屬於 004 的部分，不增減欄位、按鈕或頁面：
-  - `frontend/src/pages/teacher/SetupPage.tsx`：建立模式的初始值改用 `GROUP_COUNT_DEFAULT`；「−」在 `groupCount <= GROUP_COUNT_MIN` 時 `disabled`，「+」在 `groupCount >= GROUP_COUNT_MAX` 時 `disabled`，點擊時也限制在範圍內；`JOIN_METHOD` 改為 spec「說明文字」的內容。修改模式的初始值仍是目前活動的組數。
-  - `frontend/src/pages/student/StudentPlayPage.tsx` 的 `WaitView`：「這一輪」保留題數，下方加上 spec「說明文字」的等待開放頁文字。
-  - 按鈕的位置、順序不變，所以不牽涉 001 research RD-09 的按鈕規則；實作前仍依 CLAUDE.md 第 2 節步驟 6 列出這兩頁的按鈕與文字給使用者確認。
-- **Rationale**: 001 spec 的範圍原則明說後續子功能決定規則時不需要修改 001 的 spec，除非要增減欄位、按鈕或頁面；這裡只填入 004 的規則與文字。
-- **Alternatives considered**: 請 001 補做（001 已完成並通過圖表一致性驗證，要重開 001 的流程）；只做伺服器驗證、頁面不限制（違反 AC-02，老師可以按到 0 組再被拒絕）。
+- **Decision**: 001 spec FR-023、FR-051 把組數的預設值、「−」「+」何時不可用與說明文字交給 004，001 已完成但只保留位置。004 只在 `shared/src/activityRules.ts` 提供 `GROUP_COUNT_MIN`、`GROUP_COUNT_MAX`、`GROUP_COUNT_DEFAULT`、`JOIN_METHOD_TEXT`、`WAIT_ROUND_TEXT`，不修改 001 的頁面與測試；`SetupPage.tsx` 與 `StudentPlayPage.tsx`（`WaitView`）引用這些常數，由 001 依 C2 修改。C2 完成前，頁面維持 001 現況，超出範圍的組數由伺服器以 `ValidationError` 拒絕（AC-04）。
+- **Rationale**: 憲法 III 規定新增規則時不得為此修改既有且已驗證的實作；001 plan「替換模擬實作的方式」也只允許後續子功能修改 `ServiceRegistry` 的綁定。頁面屬於 001，由 001 修改才能讓 001 的 spec、測試與圖表一致性驗證一起更新。
+- **Alternatives considered**: 004 直接修改兩個頁面（2026-11-26 第一版的做法；analyze 第 5 次 C1 判定違反原則 III）；修改憲法加上例外（影響所有子功能，需另外提出）；透過 `ActivityService` 回傳規則（要改 001 的介面，一樣要請 001 修改，且文字不是活動狀態）。
 
 ## RA-17 取消活動（REQ-ACT-22）
 

diff --git a/specs/004-buzzer-session/data-model.md b/specs/004-buzzer-session/data-model.md
@@ -10,11 +10,13 @@
 
 | 常數 | 值 | 用途 |
 | --- | --- | --- |
-| `GROUP_COUNT_MIN` | 2 | T-Setup「−」何時不可用（001 spec US2 AC-7 已交給 004，004 套用）；伺服器驗證（REQ-ACT-02） |
+| `GROUP_COUNT_MIN` | 2 | T-Setup「−」何時不可用（001 spec US2 AC-7 已交給 004，001 依 C2 引用）；伺服器驗證（REQ-ACT-02） |
 | `GROUP_COUNT_MAX` | 20 | T-Setup「+」何時不可用（同上）；伺服器驗證 |
 | `GROUP_COUNT_DEFAULT` | 6 | T-Setup 建立模式的初始值（001 spec FR-023 把預設值交給 004） |
+| `JOIN_METHOD_TEXT` | spec「說明文字」的活動設定頁文字 | T-Setup「學生加入」 |
+| `WAIT_ROUND_TEXT` | spec「說明文字」的等待開放頁文字 | S-Wait「這一輪」題數下方 |
 
-001 已完成但 T-Setup 沒有引用這些常數，由 004 修改 `SetupPage.tsx` 套用（REQ-ACT-23、research RA-16）。
+001 已完成但頁面沒有引用這些常數；頁面由 001 依 spec「需請 001 修改」C2 修改，004 不修改 001 的頁面（REQ-ACT-23、research RA-16）。伺服器只用三個組數常數。
 
 ### `activitySync.ts`
 
@@ -194,13 +196,6 @@ n 不是 1..groupCount 的整數       → error NO_SUCH_GROUP「沒有第 n 組
 | `+on<T>(event, listener)`、`+onConnect(listener)` | 訂閱任一伺服器事件（004 用 `activity:snapshot`，005、006 註冊自己的事件）與連線成功；都回傳 `Unsubscribe` |
 | `+emitWithAck<T>(event, payload)` | 送出事件並等 ack（004 用 `group:join`、`group:leave`，005 用自己的事件）；5 秒逾時以 `UnexpectedError`「連不上伺服器，請確認伺服器已啟動」 reject |
 | `+studentToken()`、`+setStudentToken(token)` | 讀寫 `sessionStorage` 的 `quizBuzzer.studentToken` |
-
-### 001 頁面中屬於 004 的部分（research RA-16）
-
-| 頁面 | 004 套用的內容 |
-| --- | --- |
-| `SetupPage`（T-Setup） | 建立模式的組數初始值 `GROUP_COUNT_DEFAULT`；「−」在 `GROUP_COUNT_MIN`、「+」在 `GROUP_COUNT_MAX` 時不可用；「學生加入」文字（spec「說明文字」） |
-| `StudentPlayPage` 的 `WaitView`（S-Wait） | 「這一輪」在題數下方加上 spec「說明文字」的等待開放頁文字 |
 
 ### 002 提供的前端模組
 

diff --git a/specs/004-buzzer-session/checklists/requirements.md b/specs/004-buzzer-session/checklists/requirements.md
@@ -40,3 +40,4 @@
 - 2026-11-21 analyze 前自我檢查：REQ-ACT-18、20 原本沒有 AC，補上 AC-30、AC-31。
 - 2026-11-22 配合 001 最終版（PR #10）：「需請 001 修改」只留 C1（D21，修改前為暫時限制，新增 AC-32）；`joinGroup` 的預期失敗改用 `UnexpectedError`；老師規則改為任何人登入都取代前一位老師。新增 Clarifications Session 2026-11-22。重新檢查後 16 項仍全部通過。
 - 2026-11-26 依 main 上的 feature-split（取消活動）、001 最終版（FR-026、FR-050、FR-051、RD-12）與 002 #18 修訂：新增 REQ-ACT-22（取消活動，AC-33～36）、REQ-ACT-23（由 004 在活動設定頁與等待開放頁套用組數規則與說明文字）；REQ-ACT-03 改為取消後可以再建立；REQ-ACT-19 學生資料不含學習單標題與工作表名稱；C1 註明 001 未納入。新增 Clarifications Session 2026-11-26、SC-007。重新檢查後 16 項仍全部通過。
+- 2026-11-26 analyze 第 5 次後修訂：C1（CRITICAL，原則 III）改為「需請 001 修改」C2，REQ-ACT-23 改為 004 只以共用常數提供規則與文字，AC-01、02、09 的頁面部分標明需 001 完成 C2；M1 伺服器重新啟動的 edge case 改寫成實際行為；L2 REQ-ACT-07 改為引用 REQ-ACT-22。重新檢查後 16 項仍全部通過。
